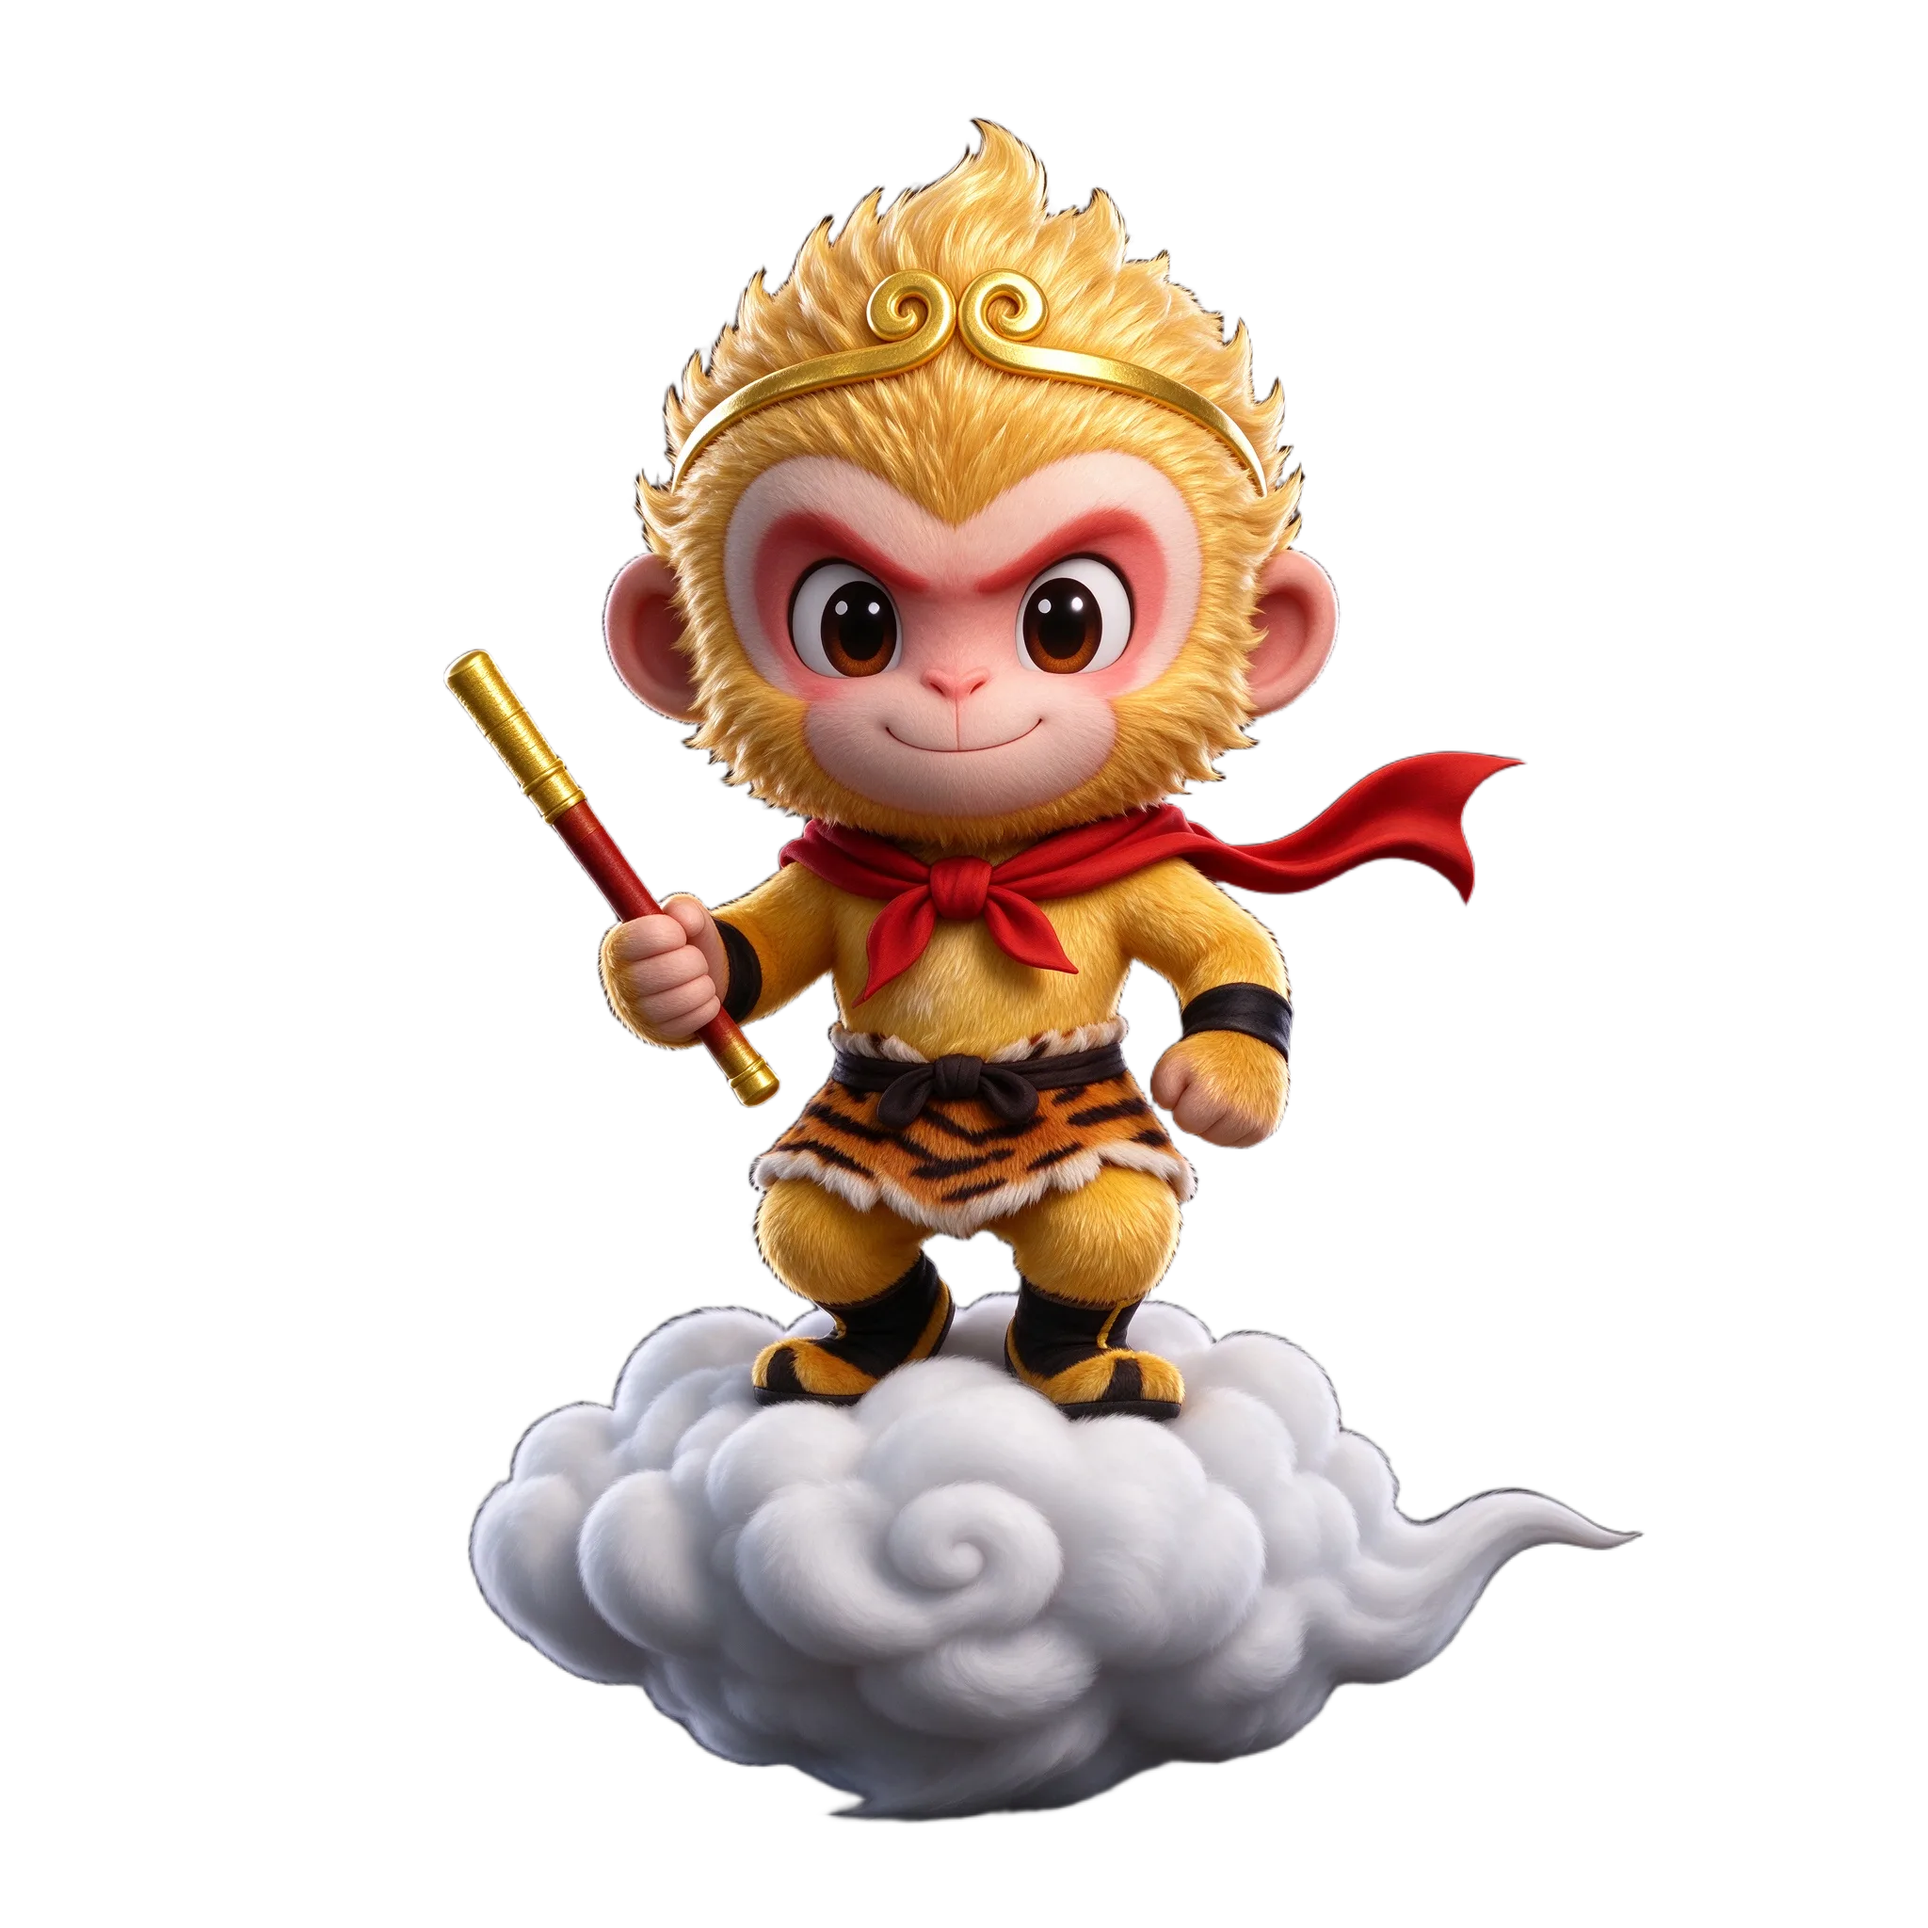
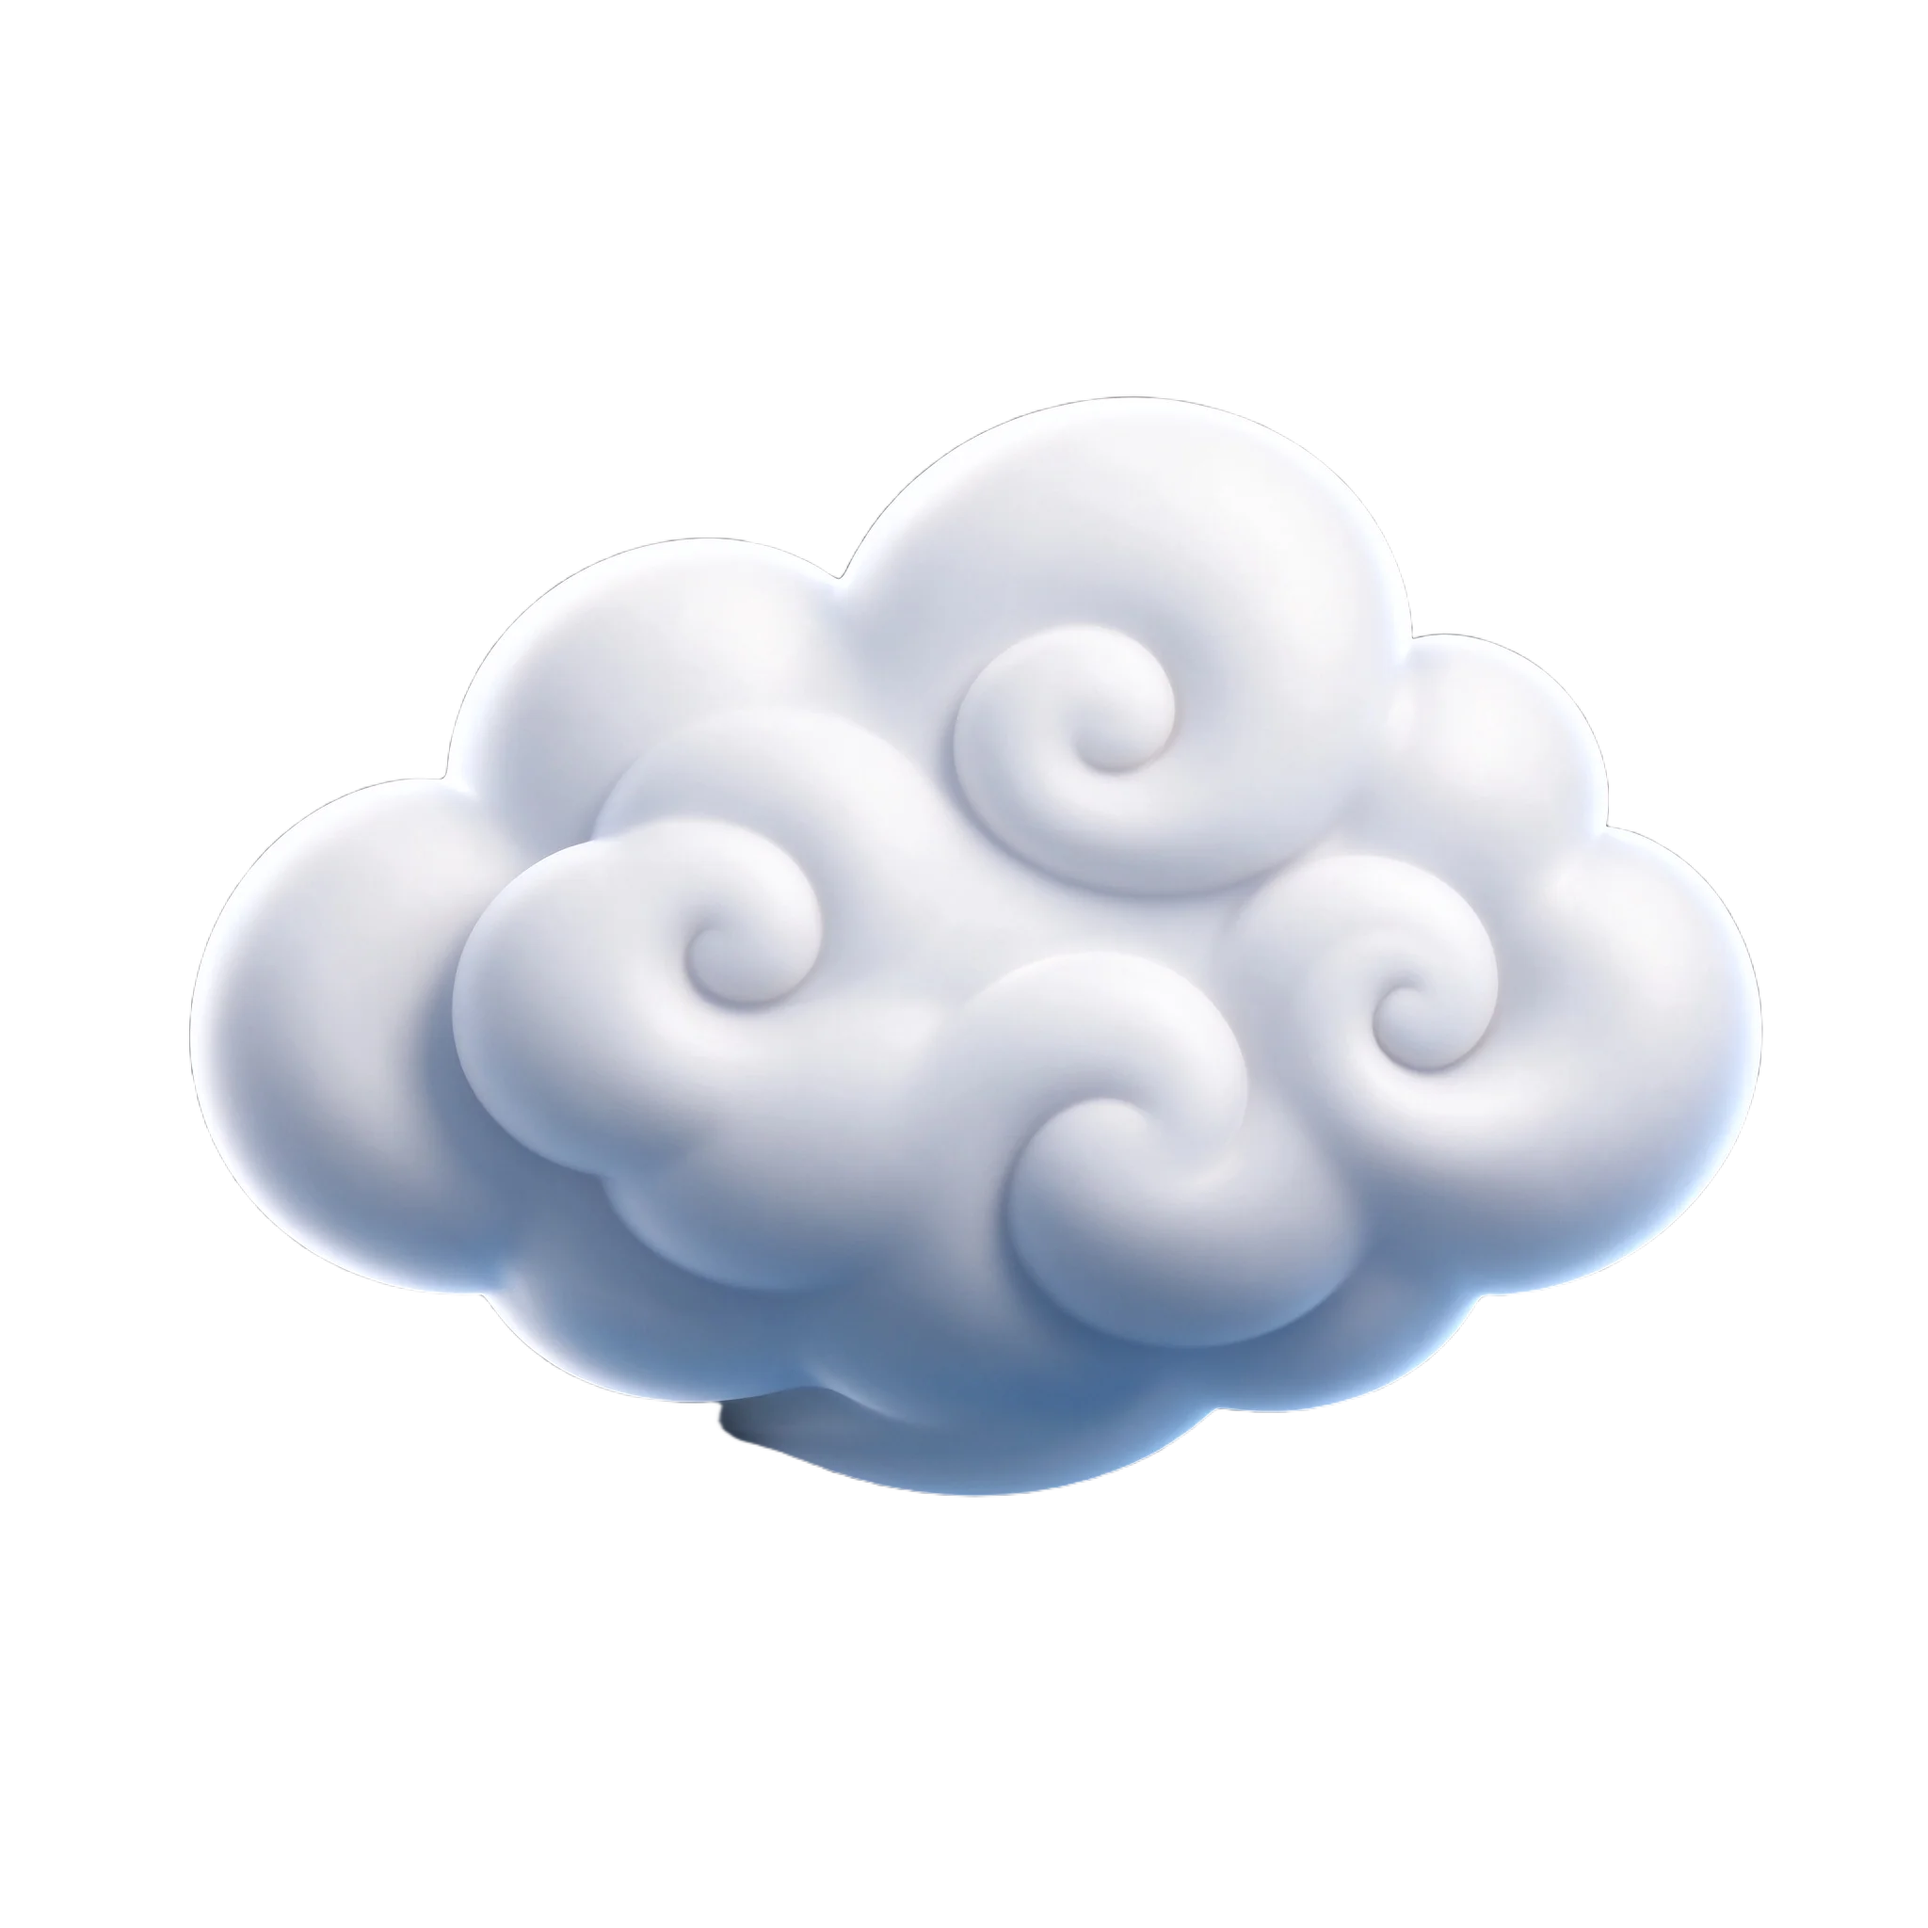
悟空助手拆分为云底座+悟空本体：筋斗云独立浮动，后空翻/招手等动作只在悟空身上发生，云不旋转

diff --git a/src/components/quest/WukongAiAssistant.jsx b/src/components/quest/WukongAiAssistant.jsx
@@ -2,11 +2,13 @@ import { useState, useRef, useEffect, useCallback } from 'react'
 import { callAI } from '../../lib/ai'
 import { toast } from '../../lib/toast'
 
-// 悟空 AI 助手：右下角浮动（踩筋斗云的孙悟空，可鼠标拖拽移动），点击弹出对标"句乐部"的深色 AI 问答弹窗（弹窗可拖动）
+// 悟空 AI 助手：右下角浮动（孙悟空踩在筋斗云上表演动作，可鼠标拖拽移动），点击弹出对标"句乐部"的深色 AI 问答弹窗（弹窗可拖动）
+// 结构：筋斗云是独立底座（只浮动不旋转），悟空本体在云上做动作（后空翻只转悟空，云不动）
 // props: statement={russian, chinese} 当前练习句子；modeLabel 模式中文名（如"中译俄"）
-const WUKONG_IMG = '/images/ai-assistant/wukong-cloud.webp' // 动作1：站立握棒
-const WUKONG_IMG2 = '/images/ai-assistant/wukong-2.webp'    // 动作2：翻筋斗
-const WUKONG_IMG3 = '/images/ai-assistant/wukong-3.webp'    // 动作3：招手
+const WUKONG_CLOUD = '/images/ai-assistant/wukong-cloud.webp'    // 筋斗云底座
+const WUKONG_BODY1 = '/images/ai-assistant/wukong-body-1.webp'   // 悟空动作1：站立瞭望
+const WUKONG_BODY2 = '/images/ai-assistant/wukong-body-2.webp'   // 悟空动作2：后空翻
+const WUKONG_BODY3 = '/images/ai-assistant/wukong-body-3.webp'   // 悟空动作3：招手
 const BTN_SIZE = 92
 
 const PRESET_QUESTIONS = [
@@ -173,11 +175,16 @@ export default function WukongAiAssistant({ statement, modeLabel = '练习' }) {
         }}
         className={btnDragging ? "wukong-float-btn dragging" : "wukong-float-btn"}
       >
-        {/* 三动作循环表演（动作间交叉淡化+位移动势衔接） */}
-        <div className="wukong-stack" style={{ position: 'absolute', inset: 0, pointerEvents: 'none' }}>
-          <img src={WUKONG_IMG} alt="" className="wukong-act-img wukong-act1" />
-          <img src={WUKONG_IMG2} alt="" className="wukong-act-img wukong-act2" />
-          <img src={WUKONG_IMG3} alt="" className="wukong-act-img wukong-act3" />
+        {/* 双层结构：筋斗云底座 + 悟空在云上表演 */}
+        <div className="wukong-stage" style={{ position: 'absolute', inset: 0, pointerEvents: 'none' }}>
+          {/* 筋斗云：独立底座，只轻微浮动，不参与旋转 */}
+          <img src={WUKONG_CLOUD} alt="" className="wukong-cloud-img" />
+          {/* 悟空本体：在云上方做三动作（旋转/位移只作用于悟空） */}
+          <div className="wukong-body-wrap">
+            <img src={WUKONG_BODY1} alt="" className="wukong-act-img wukong-b1" />
+            <img src={WUKONG_BODY2} alt="" className="wukong-act-img wukong-b2" />
+            <img src={WUKONG_BODY3} alt="" className="wukong-act-img wukong-b3" />
+          </div>
         </div>
         {/* 状态小光点 */}
         <span style={{
@@ -185,49 +192,65 @@ export default function WukongAiAssistant({ statement, modeLabel = '练习' }) {
           background: '#22c55e', border: '2px solid #fff', boxShadow: '0 0 8px rgba(34,197,94,0.8)',
         }} />
         <style>{`
-          @keyframes wukong-act1 {
-            0%   { opacity: 0; transform: translateY(10px) rotate(0deg); }
+          /* 筋斗云：只浮动，始终在底部 */
+          @keyframes wukong-cloud-float { 0%,100% { transform: translateY(0); } 50% { transform: translateY(-4px); } }
+          .wukong-cloud-img {
+            position: absolute; left: 0; right: 0; bottom: 0; width: 100%; height: 56%;
+            object-fit: contain; animation: wukong-cloud-float 3.2s ease-in-out infinite;
+          }
+          /* 悟空层：放大主体，位于云上方 */
+          .wukong-body-wrap {
+            position: absolute; left: 0; right: 0; bottom: 24%; width: 100%; height: 62%;
+            transform: scale(1.5); transform-origin: bottom center;
+          }
+          /* 动作1：站立瞭望（0-33%），上抛衔接后空翻 */
+          @keyframes wukong-b1 {
+            0%   { opacity: 0; transform: translateY(8px) rotate(0deg); }
             3%   { opacity: 1; transform: translateY(0) rotate(0deg); }
-            8%   { opacity: 1; transform: translateY(-7px) rotate(-2deg); }
+            8%   { opacity: 1; transform: translateY(-6px) rotate(-2deg); }
             13%  { opacity: 1; transform: translateY(0) rotate(0deg); }
-            18%  { opacity: 1; transform: translateY(-7px) rotate(2deg); }
+            18%  { opacity: 1; transform: translateY(-6px) rotate(2deg); }
             24%  { opacity: 1; transform: translateY(0) rotate(0deg); }
-            29%  { opacity: 0; transform: translateY(-26px) rotate(8deg); }
-            100% { opacity: 0; transform: translateY(-26px) rotate(8deg); }
+            29%  { opacity: 1; transform: translateY(-4px) rotate(0deg); }
+            32%  { opacity: 0; transform: translateY(-18px) rotate(6deg); }
+            100% { opacity: 0; transform: translateY(-18px) rotate(6deg); }
           }
-          @keyframes wukong-act2 {
-            0%   { opacity: 0; transform: translateY(-26px) rotate(8deg); }
-            31%  { opacity: 0; transform: translateY(-26px) rotate(8deg); }
-            34%  { opacity: 1; transform: translateY(-14px) rotate(-24deg); }
-            43%  { opacity: 1; transform: translateY(4px) rotate(120deg); }
-            52%  { opacity: 1; transform: translateY(-9px) rotate(260deg); }
-            60%  { opacity: 1; transform: translateY(0) rotate(360deg); }
-            63%  { opacity: 0; transform: translateY(24px) rotate(392deg); }
-            100% { opacity: 0; transform: translateY(24px) rotate(392deg); }
+          /* 动作2：后空翻（33-66%），悟空原地翻360°落回云上，云不动 */
+          @keyframes wukong-b2 {
+            0%   { opacity: 0; transform: translateY(-18px) rotate(6deg); }
+            33%  { opacity: 0; transform: translateY(-18px) rotate(6deg); }
+            36%  { opacity: 1; transform: translateY(-12px) rotate(-30deg); }
+            45%  { opacity: 1; transform: translateY(-2px) rotate(120deg); }
+            54%  { opacity: 1; transform: translateY(-6px) rotate(240deg); }
+            61%  { opacity: 1; transform: translateY(0) rotate(360deg); }
+            64%  { opacity: 0; transform: translateY(14px) rotate(392deg); }
+            100% { opacity: 0; transform: translateY(14px) rotate(392deg); }
           }
-          @keyframes wukong-act3 {
-            0%   { opacity: 0; transform: translateY(24px) rotate(0deg); }
-            64%  { opacity: 0; transform: translateY(24px) rotate(0deg); }
-            67%  { opacity: 1; transform: translateY(9px) rotate(-4deg); }
-            71%  { opacity: 1; transform: translateY(-4px) rotate(4deg); }
-            75%  { opacity: 1; transform: translateY(0) rotate(-5deg); }
-            79%  { opacity: 1; transform: translateY(-5px) rotate(5deg); }
-            83%  { opacity: 1; transform: translateY(0) rotate(-3deg); }
-            87%  { opacity: 1; transform: translateY(-4px) rotate(3deg); }
-            91%  { opacity: 0; transform: translateY(-12px) rotate(0deg); }
-            100% { opacity: 0; transform: translateY(-12px) rotate(0deg); }
+          /* 动作3：招手摇摆（66-100%），下沉探入后左右摇摆 */
+          @keyframes wukong-b3 {
+            0%   { opacity: 0; transform: translateY(14px) rotate(0deg); }
+            66%  { opacity: 0; transform: translateY(14px) rotate(0deg); }
+            69%  { opacity: 1; transform: translateY(5px) rotate(-4deg); }
+            73%  { opacity: 1; transform: translateY(-3px) rotate(4deg); }
+            77%  { opacity: 1; transform: translateY(0) rotate(-5deg); }
+            81%  { opacity: 1; transform: translateY(-3px) rotate(5deg); }
+            85%  { opacity: 1; transform: translateY(0) rotate(-3deg); }
+            89%  { opacity: 1; transform: translateY(-3px) rotate(3deg); }
+            93%  { opacity: 0; transform: translateY(-13px) rotate(0deg); }
+            100% { opacity: 0; transform: translateY(-13px) rotate(0deg); }
           }
-          .wukong-stack img {
+          .wukong-act-img {
             position: absolute; inset: 0; width: 100%; height: 100%; object-fit: contain;
-            opacity: 0; pointer-events: none; will-change: transform, opacity;
+            opacity: 0; will-change: transform, opacity;
           }
-          .wukong-act1 { animation: wukong-act1 12s infinite; }
-          .wukong-act2 { animation: wukong-act2 12s infinite; }
-          .wukong-act3 { animation: wukong-act3 12s infinite; }
+          .wukong-b1 { animation: wukong-b1 12s infinite; }
+          .wukong-b2 { animation: wukong-b2 12s infinite; }
+          .wukong-b3 { animation: wukong-b3 12s infinite; }
           .wukong-float-btn { transition: transform 0.18s ease; }
           .wukong-float-btn:hover { transform: scale(1.08); }
           .wukong-float-btn.dragging { cursor: grabbing; }
-          .wukong-float-btn.dragging .wukong-act-img { animation: none; }
+          .wukong-float-btn.dragging .wukong-act-img,
+          .wukong-float-btn.dragging .wukong-cloud-img { animation: none; }
         `}</style>
       </button>
 
@@ -261,7 +284,7 @@ export default function WukongAiAssistant({ statement, modeLabel = '练习' }) {
               }}
             >
               <div style={{ display: 'flex', alignItems: 'center', gap: 10, pointerEvents: 'none' }}>
-                <img src={WUKONG_IMG} alt="" style={{ width: 34, height: 34, objectFit: 'contain' }} />
+                <img src={WUKONG_BODY1} alt="" style={{ width: 34, height: 34, objectFit: 'contain' }} />
                 <div>
                   <h2 style={{ fontSize: 16, fontWeight: 700, lineHeight: 1.2 }}>悟空智能助手</h2>
                   <span style={{ fontSize: 11, color: 'var(--qs-sub, #6b7280)', display: 'inline-flex', alignItems: 'center', gap: 5, marginTop: 2 }}>
